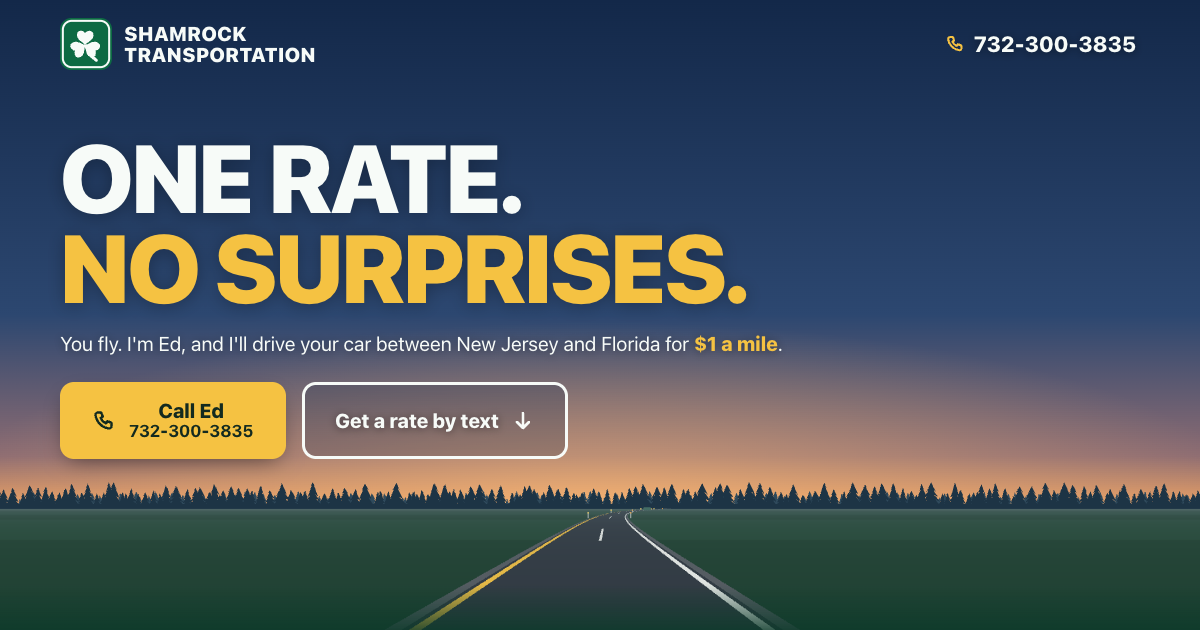
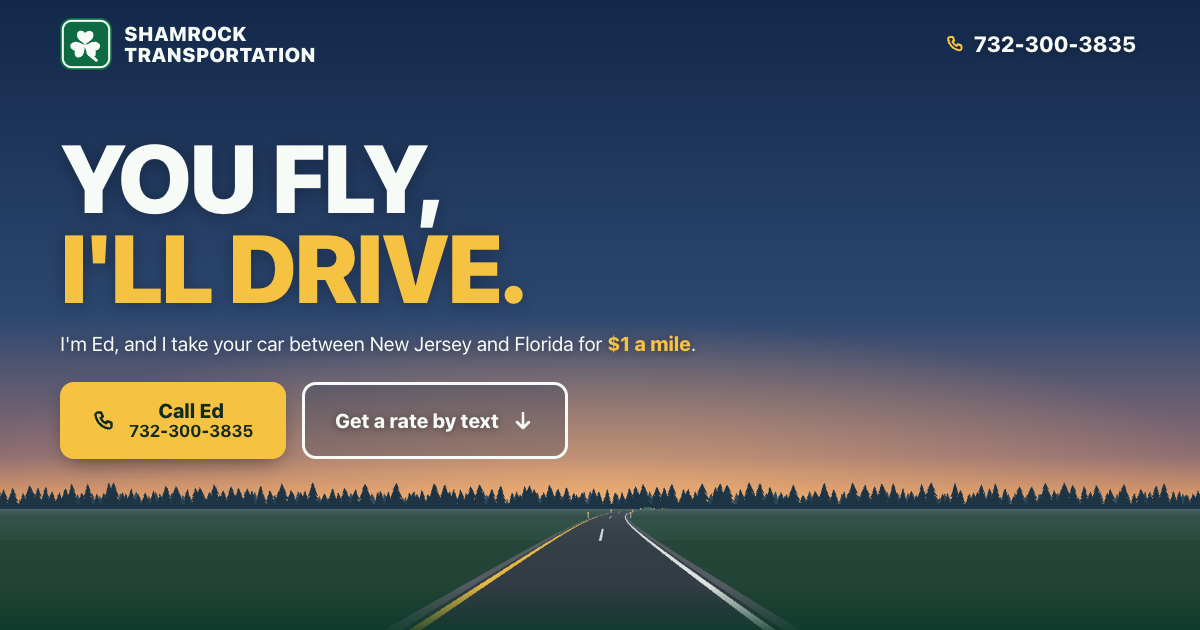
Headline: You fly, I'll drive; drop gas/tolls line from the form lead
Claude-Session: https://claude.ai/code/session_01H7VhvuU6x3qGzxsMHHhszH

Changed region(s): [[0.0308, 0.2111, 0.6475, 0.4825], [0.0308, 0.5127, 0.6475, 0.573]]

diff --git a/index.html b/index.html
@@ -7,7 +7,7 @@
 <meta name="description" content="Shamrock Transportation drives your own car between New Jersey and Florida while you fly. $1 a mile, with the total said up front. Call Ed at 732-300-3835.">
 <meta name="theme-color" content="#0c3a2a">
 <meta property="og:type" content="website">
-<meta property="og:title" content="Shamrock Transportation: one rate, no surprises">
+<meta property="og:title" content="Shamrock Transportation: You fly, I'll drive.">
 <meta property="og:description" content="You fly. I'll drive your car between New Jersey and Florida. Call Ed at 732-300-3835.">
 <meta property="og:url" content="https://10elizabethbell.github.io/shamrockTransparentPricing/">
 <meta property="og:image" content="https://10elizabethbell.github.io/shamrockTransparentPricing/og.png">
@@ -198,7 +198,7 @@ footer .fine p + p{margin-top:6px}
 <!--
 THESIS: The interstate itself sells the trip: a still dusk view down I-95, and the rate request on a guide sign, plain enough to read at 65 mph. Refuses the auto-transport default of a stock truck photo, a quote form wall and fine print.
 OWN-WORLD: Guide-sign green panels with an inset white border, retroreflective white lettering, lane-line yellow for the one action, asphalt with yellow left edge and white dashes, dusk sky (navy to Florida-peach glow), highway-concrete light sections. Deep roadside green ground, never black.
-STORY: Snowbird sees "One rate. No surprises.", understands Ed drives their car while they fly, sees $1 a mile, picks their trip and texts (or calls) for the total, reads straight answers, and calls. Kept short, still and calm for a 40-70 audience: nothing moves, nothing to figure out.
+STORY: Snowbird sees "You fly, I'll drive.", understands Ed drives their car while they fly, sees $1 a mile, picks their trip and texts (or calls) for the total, reads straight answers, and calls. Kept short, still and calm for a 40-70 audience: nothing moves, nothing to figure out.
 FIRST VIEWPORT: Phone: shamrock and name top-left, full number top-right; huge two-line headline; one-line promise; yellow Call Ed 732-300-3835 (full width) and outlined Get a rate by text; below, a still picture of the road running to a pine horizon, with an I-95 sign ahead.
 FORM: Interstate guide signs + dusk highway, my list #1 (seed b9fde720 assigned #6 luggage tags; overridden by Ellie's pitch-site rule: brand + fluid touchable signature). No animation at all, by Ellie's decision (2026-10-14, audience 40-70): the hero road is one still frame. This overrides the pitch-site signature-motion rule for this site.
 FINISH: unreviewed and undocumented is unfinished; this build ends with the finish review, the verdict, DESIGN.md, and every shipping raster carrying its provenance
@@ -232,8 +232,8 @@ FINISH: unreviewed and undocumented is unfinished; this build ends with the fini
   <section class="hero" id="hero" aria-labelledby="h1">
     <canvas id="road" aria-hidden="true"></canvas>
     <div class="wrap hero-copy" id="heroCopy">
-      <h1 id="h1"><span>One rate.</span> <span class="yl">No surprises.</span></h1>
-      <p class="promise">You fly. I'm Ed, and I'll drive your car between New&nbsp;Jersey and Florida for <strong class="price">$1&nbsp;a&nbsp;mile</strong>.</p>
+      <h1 id="h1"><span>You fly,</span> <span class="yl">I'll drive.</span></h1>
+      <p class="promise">I'm Ed, and I take your car between New&nbsp;Jersey and Florida for <strong class="price">$1&nbsp;a&nbsp;mile</strong>.</p>
       <div class="hero-actions">
         <a class="btn btn-call" href="tel:+17323003835"><svg aria-hidden="true"><use href="#i-phone"/></svg><span class="btn-stack">Call Ed<small>732-300-3835</small></span></a>
         <a class="btn btn-line" href="#quote">Get a rate by text<svg aria-hidden="true"><use href="#i-down"/></svg></a>
@@ -247,7 +247,7 @@ FINISH: unreviewed and undocumented is unfinished; this build ends with the fini
       <div>
         <h2 id="quote-h">$1 a mile. That's the rate.</h2>
         <!-- CONFIRM with Ed: what a rate includes (gas, tolls, his trip home). Once known, say it here plainly. -->
-        <p class="lead">Tell me your trip and I'll tell you the miles and the total. Before you book, you'll know who pays for gas and tolls, and your pickup and drop-off days.</p>
+        <p class="lead">Tell me your trip and I'll tell you the miles and the total.</p>
         <p class="alt">Rather talk? <a href="tel:+17323003835">Call 732-300-3835</a></p>
       </div>
       <form class="sign" id="quoteForm" novalidate>

diff --git a/HANDOFF.md b/HANDOFF.md
@@ -7,7 +7,7 @@
 - **Simplified 2026-10-14 for a 40-70 audience (Ellie):** nothing moves, nothing to figure out, sections with little detail cut. Removed: the moving road dividers, the separate rate board, the "before you say yes" list, "Pack the car full", "How the trip goes", and the closing sign (its content now lives in the footer).
 - **Applied Ellie's 40-70 research brief (2026-10-14, `~/Downloads/NJ_Florida_Vehicle_Delivery_Website_Research_and_Design_Brief_Ages_40_to_70.pdf`):** full phone number in the header, mixed-case section headings (hero stays sign caps), "When" made optional in the form, and a "Who will I be dealing with?" answer naming Ed.
 - **Header:** shamrock and name on the left, the full number 732-300-3835 on the right (tap to call). On phones under 430px the name shrinks to 14px so the number fits; under 340px only the shamrock shows.
-- **Hero:** "One rate. No surprises." and "You fly. I'm Ed, and I'll drive your car between New Jersey and Florida for $1 a mile." (the price in yellow) Two buttons: Call Ed (filled yellow, `tel:`) and Get a rate by text (outlined, scrolls to the form). Behind and below: a dusk view down I-95 (pines, reflector posts, a distant green sign) drawn once as a still picture.
+- **Hero:** "You fly, I'll drive." (Ed's own line, Ellie's pick 2026-10-15; was "One rate. No surprises.") and "I'm Ed, and I take your car between New Jersey and Florida for $1 a mile." (the price in yellow) Two buttons: Call Ed (filled yellow, `tel:`) and Get a rate by text (outlined, scrolls to the form). Behind and below: a dusk view down I-95 (pines, reflector posts, a distant green sign) drawn once as a still picture.
   - History, all 2026-10-14: steerable animated road (first build) → self-driving calm road → replaced by a still guide-sign hero ("I'll drive your car. You fly.") → Ellie brought the road hero back, static. The sign hero is in git history (commit 1d0b58a) if wanted.
 - **No animation anywhere.** The road is drawn once on load (and again only if the window size changes); there's no animation loop. This overrides the pitch-site "signature motion" rule for this site, by Ellie's call. To pick a different still view, change `FRAME_TIME` (the bend) and `FRAME_TRAVEL` (where the posts and sign sit) at the top of the hero script.
 - **How it works was removed** (Ellie, 2026-10-15). It's in git history (commit 535ea56) if wanted.
@@ -20,7 +20,7 @@
 ## Assumptions I made
 - **The shamrock is mine, drawn in SVG.** I don't have the card photo, and the brief says to ask before using a card scan publicly. Swap in Ed's real emblem when Ellie clears it; it's used in the header, the close, the favicon and `apple-touch-icon.png`.
 - **Green:** the brief said to sample the card's green, else use a deep Irish green. I used interstate guide-sign green (#0d6a43) because it is both. Re-sample it from the card.
-- **"One rate. No surprises."** stays as the headline: $1 a mile is the one rate. The form lead promises he'll say who pays gas and tolls and the pickup and drop-off days before booking; confirm he's fine saying that.
+- **Footer close repeats "You fly. I'll drive."** now that it's also the headline. Left as a bookend; swap it if the repeat bothers you. The form lead no longer mentions gas, tolls or pickup days (Ellie removed it 2026-10-15).
 - **"Trailer shippers make you empty it. I don't."** The brief names "pack the car full" as the #1 differentiator. Ed hasn't confirmed his own packing policy or any weight limit.
 - **"I'm Ed Brannagan, owner and driver"** comes from the card. Nothing on the page says he's the only driver.
 - **First-person voice as Ed.** The tone is plain-spoken, from the brief's notes; no social presence exists to match.

diff --git a/DESIGN.md b/DESIGN.md
@@ -201,7 +201,7 @@ components:
 
 **Creative North Star: "One Still Frame of I-95 at Dusk"**
 
-The page opens from the driver's seat: a dusk sky going peach at the horizon, a pine treeline, a two-lane road with a yellow left edge and white dashes bending gently right, reflector posts on both shoulders and a green guide sign ahead. Over it, in huge uppercase white, "One rate. / No surprises.", the second line in lane yellow. It is one still picture, not a scene that plays. Below the hero the interstate's own grammar carries on: the rate form on a guide-sign panel, answers on highway concrete, a dark footer that closes with the call.
+The page opens from the driver's seat: a dusk sky going peach at the horizon, a pine treeline, a two-lane road with a yellow left edge and white dashes bending gently right, reflector posts on both shoulders and a green guide sign ahead. Over it, in huge uppercase white, "You fly, / I'll drive.", the second line in lane yellow. It is one still picture, not a scene that plays. Below the hero the interstate's own grammar carries on: the rate form on a guide-sign panel, answers on highway concrete, a dark footer that closes with the call.
 
 Density is low and type is big for a 40-to-70 reader on a phone. The ground is deep roadside green, never black; the one light section is concrete. Lane yellow is the action color; a sky-blue outline is the one hover/focus voice. Nothing moves.
 
@@ -217,7 +217,7 @@ Density is low and type is big for a 40-to-70 reader on a phone. The ground is d
 Roadside green and concrete for the page, guide-sign green for the panel, lane yellow for action, and a dusk palette that lives only in the hero picture.
 
 ### Primary
-- **Lane-Line Yellow** (lane-yellow): call buttons, the selected trip row, step-number discs, "No surprises.", the "Call 732-300-3835" link beside the form, the header phone icon, text selection. In the road picture it is the left edge line and the left posts' reflectors. Never on concrete.
+- **Lane-Line Yellow** (lane-yellow): call buttons, the selected trip row, step-number discs, "I'll drive." in the headline, the "Call 732-300-3835" link beside the form, the header phone icon, text selection. In the road picture it is the left edge line and the left posts' reflectors. Never on concrete.
 - **Lane Ink** (lane-ink): text and icons on yellow.
 - **Focus Sky** (focus-sky): the hover and focus outline, nothing else.
 
